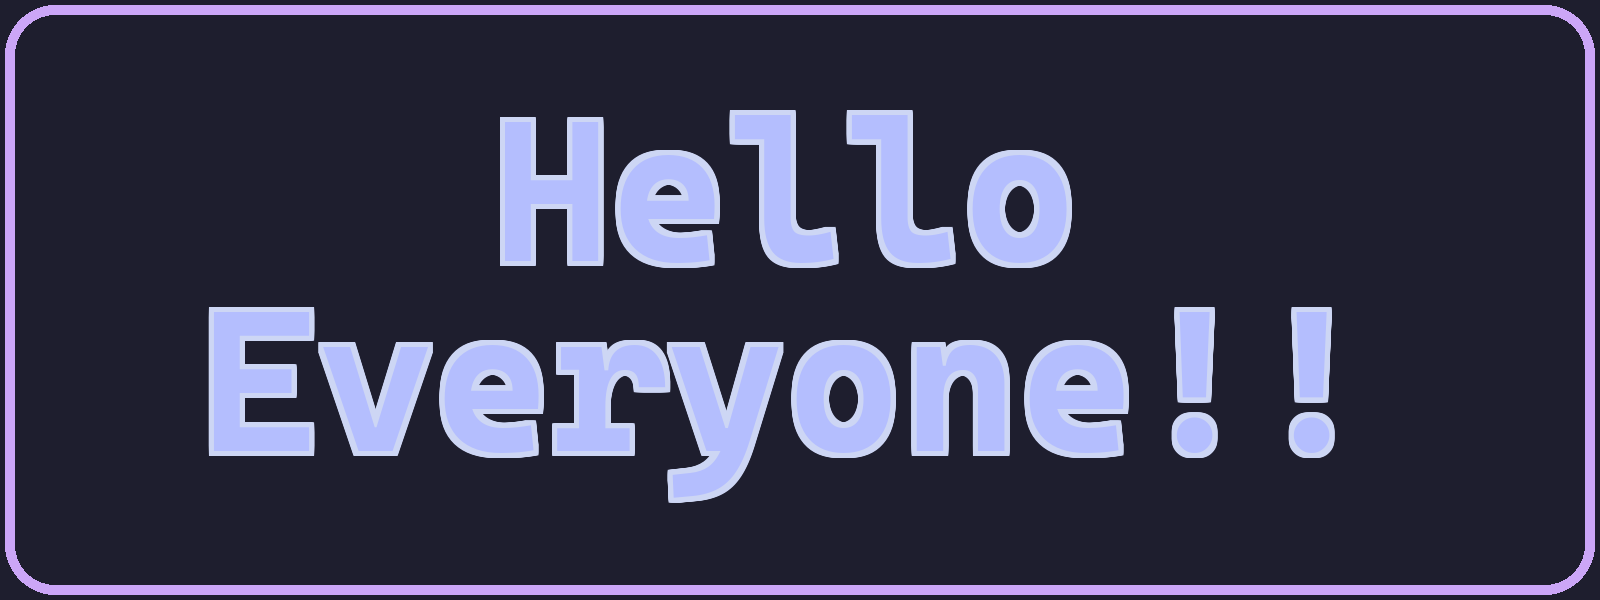
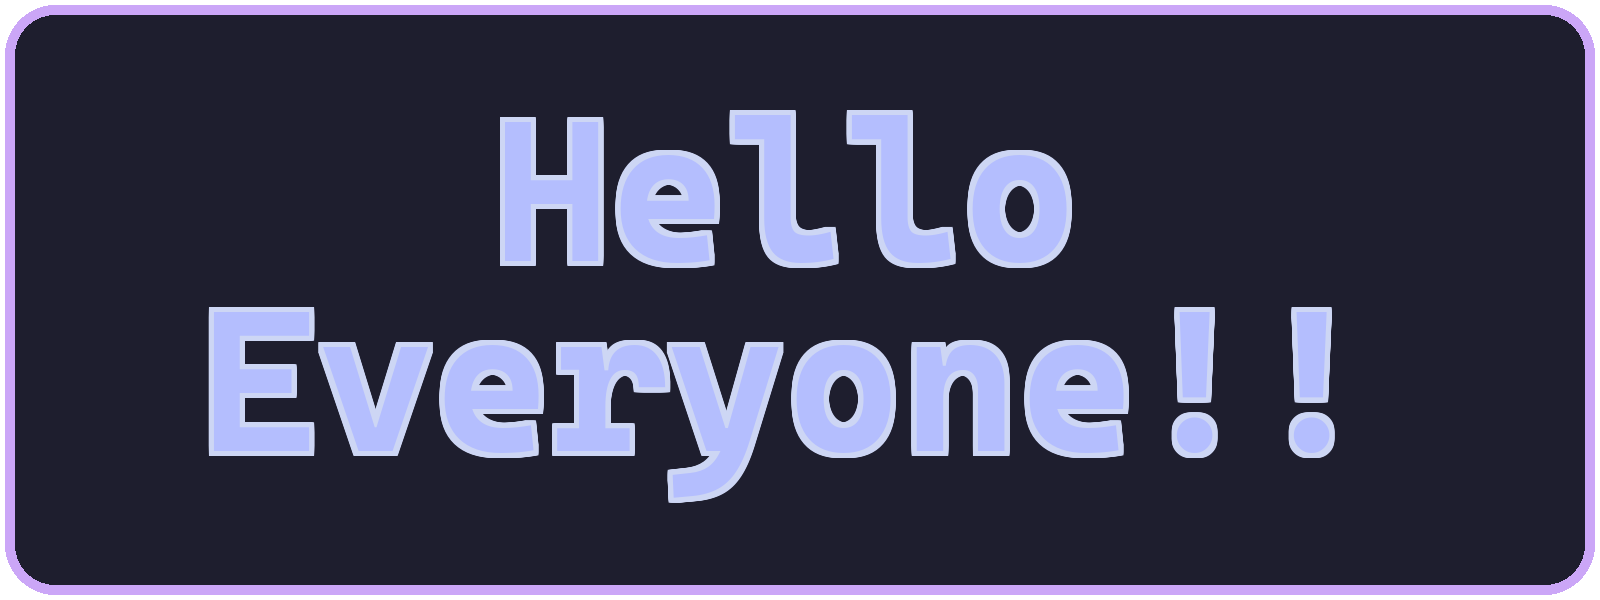
modified

Changed region(s): [[0.0, 0.9, 1.0, 1.0], [0.0, 0.0, 1.0, 0.09]]

diff --git a/banner.py b/banner.py
@@ -17,9 +17,9 @@ parser = argparse.ArgumentParser(prog="banner.py",
 parser.add_argument("--path",               type=str, default="Banner.png")
 parser.add_argument("--format",             type=str,                       help="Detect filetype if not specified.")
 parser.add_argument("--text",               type=str, default="Catppuccin")
-parser.add_argument("--text-geometry",      type=str, default=None,         help="Starting position of the text. Use default value if not specified, but this is not recommended.")
+parser.add_argument("--text-geometry",      type=str,                       help="Starting position of the text. Use default value if not specified, but this is not recommended.")
 parser.add_argument("--text-align",         type=str, default="left",       choices=["left", "center", "right"])
-parser.add_argument("--text-direction",     type=str, default=None,         choices=["ltr", "rtl", "ttb"])
+parser.add_argument("--text-direction",     type=str,                       choices=["ltr", "rtl", "ttb"])
 parser.add_argument("--flavour",            type=str, default="mocha",      help="4 Catppuccin Flavours are available. See Github README for available choices.")
 parser.add_argument("--base-image",         type=str,                       help="Select the background image. Use default image if not specified.")
 parser.add_argument("--font",               type=str, required=True,        help="Path to `.ttf` file.")
@@ -42,6 +42,12 @@ def parse_geometry(geometry:str, sep:str) -> tuple[int, int]:
 def textpos_calculate(imgsz:tuple[int, int]) -> tuple[int, int]:
     return (imgsz[0]//8, imgsz[1]//8)
 
+def mask_alpha(image_A: Image, image_B: Image) -> Image:
+    alpha_A = image_A.split()[3]
+    r, g, b, _ = image_B.split()
+    result = Image.merge("RGBA", (r, g, b, alpha_A))
+    return result
+
 
 option = parser.parse_args()
 # --------------- basic settings ---------------
@@ -60,8 +66,8 @@ imgborder_color = colorset.crgba(option.image_border_color)
 textborder_size = option.text_border_size if option.text_border_size >= 0 else fontsize // 40 # int
 imgborder_size = option.image_border_size if option.image_border_size >= 0 else fontsize // 20 # int
 # ------------------- Image --------------------
-image = Image.new("RGBA", (image_W, image_H), color=colorset.crgba("base")) if option.base_image is None else Image.open(option.base_image)
-canvas = ImageDraw.Draw(image)
+mask = Image.new("RGBA", (image_W, image_H), color=(0, 0, 0, 0))
+mask_canvas = ImageDraw.Draw(mask)
 # --------------- text position ----------------
 text_X = None
 text_Y = None
@@ -69,8 +75,38 @@ if option.text_geometry is None:
     text_X, text_Y = textpos_calculate(imgsz=(image_W, image_H))
 else:
     text_X, text_Y = parse_geometry(option.text_geometry, ',')
+# -------------- Draw mask rectangle -------------
+if option.image_border_radius is None:
+    mask_canvas.rectangle([(imgborder_size // 2, imgborder_size // 2), 
+                            (mask.size[0] - imgborder_size // 2 - 1, mask.size[1] - imgborder_size // 2 - 1)], 
+                            width=imgborder_size,
+                            fill=(0, 0, 0, 255))
+else:
+    mask_canvas.rounded_rectangle([(imgborder_size // 2, imgborder_size // 2), 
+                            (mask.size[0] - imgborder_size // 2 - 1, mask.size[1] - imgborder_size // 2 - 1)], 
+                            radius=option.image_border_radius, 
+                            width=imgborder_size,
+                            fill=(0, 0, 0, 255))        
+# ------------- Draw base image to mask ----------
+image = Image.new("RGBA", (image_W, image_H), color=colorset.crgba("base")) if option.base_image is None else Image.open(option.base_image).convert("RGBA")
+result = mask_alpha(mask, image)
+canvas = ImageDraw.Draw(result)
 
-# -------------- Draw text border --------------
+# --------------- Draw image border --------------
+if imgborder_size > 0:
+    if option.image_border_radius is None:
+        canvas.rectangle([(imgborder_size // 2, imgborder_size // 2), 
+                                (mask.size[0] - imgborder_size // 2 - 1, mask.size[1] - imgborder_size // 2 - 1)], 
+                                outline=imgborder_color, 
+                                width=imgborder_size)
+    else:
+        canvas.rounded_rectangle([(imgborder_size // 2, imgborder_size // 2), 
+                                (mask.size[0] - imgborder_size // 2 - 1, mask.size[1] - imgborder_size // 2 - 1)], 
+                                radius=option.image_border_radius, 
+                                outline=imgborder_color, 
+                                width=imgborder_size)    
+
+# ---------------- Draw text border --------------
 if textborder_size > 0: # if size is 0, not drawing border
     for dx in range(-textborder_size, textborder_size + 1):
         for dy in range(-textborder_size, textborder_size + 1):
@@ -78,19 +114,5 @@ if textborder_size > 0: # if size is 0, not drawing border
 # ----------------- write text -----------------
 canvas.text((text_X, text_Y), text, font=font, fill=text_color, align=option.text_align, direction=option.text_direction) # edit this part
 
-# -------------- Draw image border -------------
-if imgborder_size > 0:
-    if option.image_border_radius is None:
-        canvas.rectangle([(imgborder_size // 2, imgborder_size // 2), 
-                        (image.size[0] - imgborder_size // 2 - 1, image.size[1] - imgborder_size // 2 - 1)], 
-                        outline=imgborder_color, 
-                        width=imgborder_size)
-    else:
-        canvas.rounded_rectangle([(imgborder_size // 2, imgborder_size // 2), 
-                                (image.size[0] - imgborder_size // 2 - 1, image.size[1] - imgborder_size // 2 - 1)], 
-                                radius=option.image_border_radius, 
-                                outline=imgborder_color, 
-                                width=imgborder_size)        
-
 # ----------------- Save Image -----------------
-image.save(savepath, format=option.format)
+result.save(savepath, format=option.format)

diff --git a/README.md b/README.md
@@ -1,7 +1,7 @@
 <picture>
-  <source media="(prefers-color-scheme: dark)" srcset="./assets/Catppuccin-Banner-Dark.jpg">
-  <source media="(prefers-color-scheme: light)" srcset="./assets/Catppuccin-Banner-Light.jpg">
-  <img alt="Catppuccin-Banner" src="./assets/Catppuccin-Banner-Dark.jpg">
+  <source media="(prefers-color-scheme: dark)" srcset="./assets/Catppuccin-Banner-dark.png">
+  <source media="(prefers-color-scheme: light)" srcset="./assets/Catppuccin-Banner-light.png">
+  <img alt="Catppuccin-Banner" src="./assets/Catppuccin-Banner-dark.png">
 </picture>
 
 ----------------------------------------------------
@@ -76,29 +76,33 @@ Below are commands to create Dark/Light theme banner images for this repository.
 1. Dark theme banner
 
 ```bash
-$ python banner.py \
-    --text-geometry="40,20" \
-    --path="./assets/Catppuccin-Banner-Dark.jpg" \
-    --text="Catppuccin\nBanner" \
-    --text-border="sapphire" \
-    --image-border="lavender" \
-    --text-border-size=-1 \
-    --image-border-size=-1 \
-    --flavour="mocha"
+$ python banner.py \ 
+    --path="./assets/Catppuccin-Banner-dark.png" \ 
+    --text="Catppuccin\nBanner" \ 
+    --flavour=mocha \ 
+    --text-color=sky \ 
+    --text-border-color=text \ 
+    --image-border-color=lavender \ 
+    --font="./fonts/Shadows_Into_Light/ShadowsIntoLight-Regular.ttf" \ 
+    --image-border-radius=20 \ 
+    --text-align=left \ 
+    --text-geometry="40,40" 
 ```
 
 2. Light theme banner
 
 ```bash
-$ python banner.py \
-    --text-geometry="40,20" \
-    --path="./assets/Catppuccin-Banner-Light.jpg" \
+$ python banner.py\ 
+    --path="./assets/Catppuccin-Banner-light.png" \
     --text="Catppuccin\nBanner" \
-    --text-border="lavender" \
-    --image-border="sapphire" \
-    --text-border-size=-1 \
-    --image-border-size=-1 \
-    --flavour="latte"
+    --flavour=latte \
+    --text-color=lavender \
+    --text-border-color=text \
+    --image-border-color=sky \
+    --font="./fonts/Shadows_Into_Light/ShadowsIntoLight-Regular.ttf" \
+    --image-border-radius=20 \
+    --text-align=left \
+    --text-geometry="40,40"
 ```
 
 ### LICENSE
